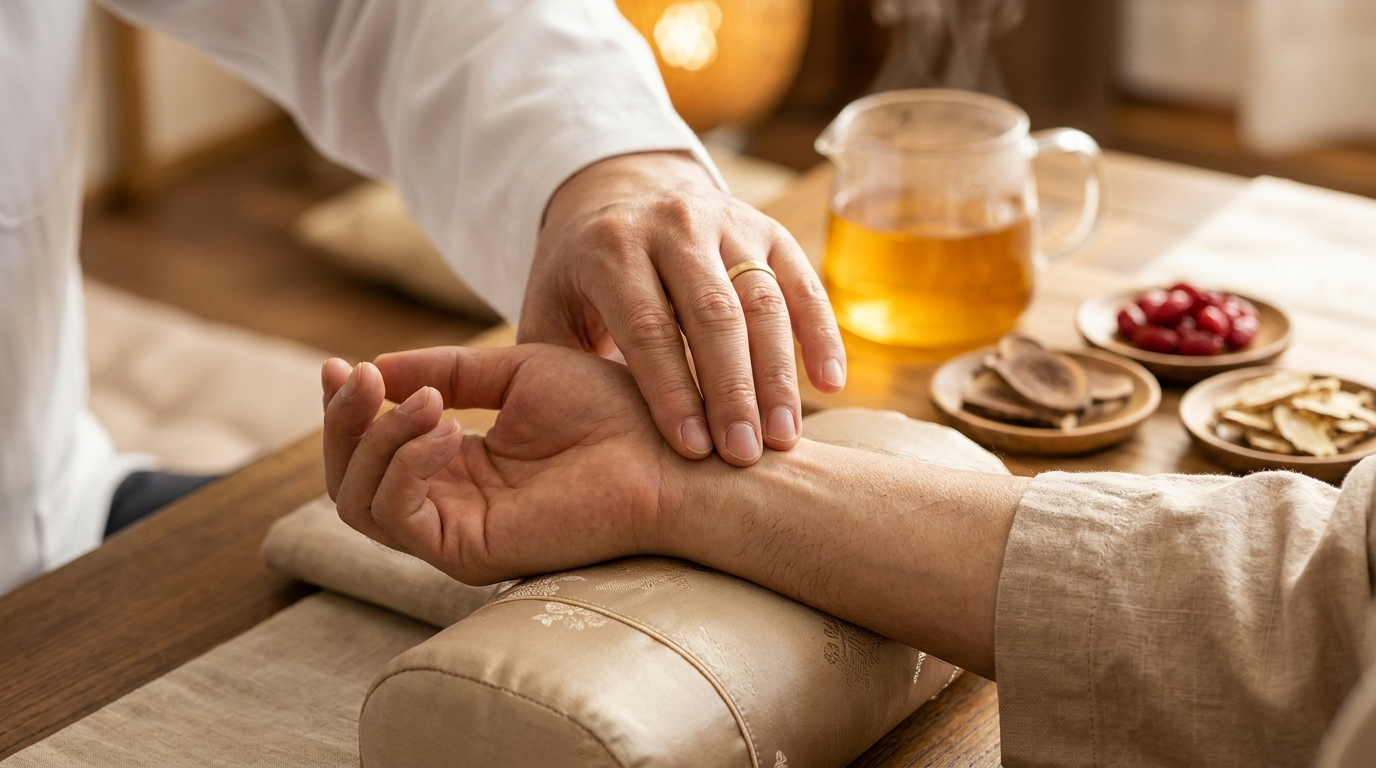
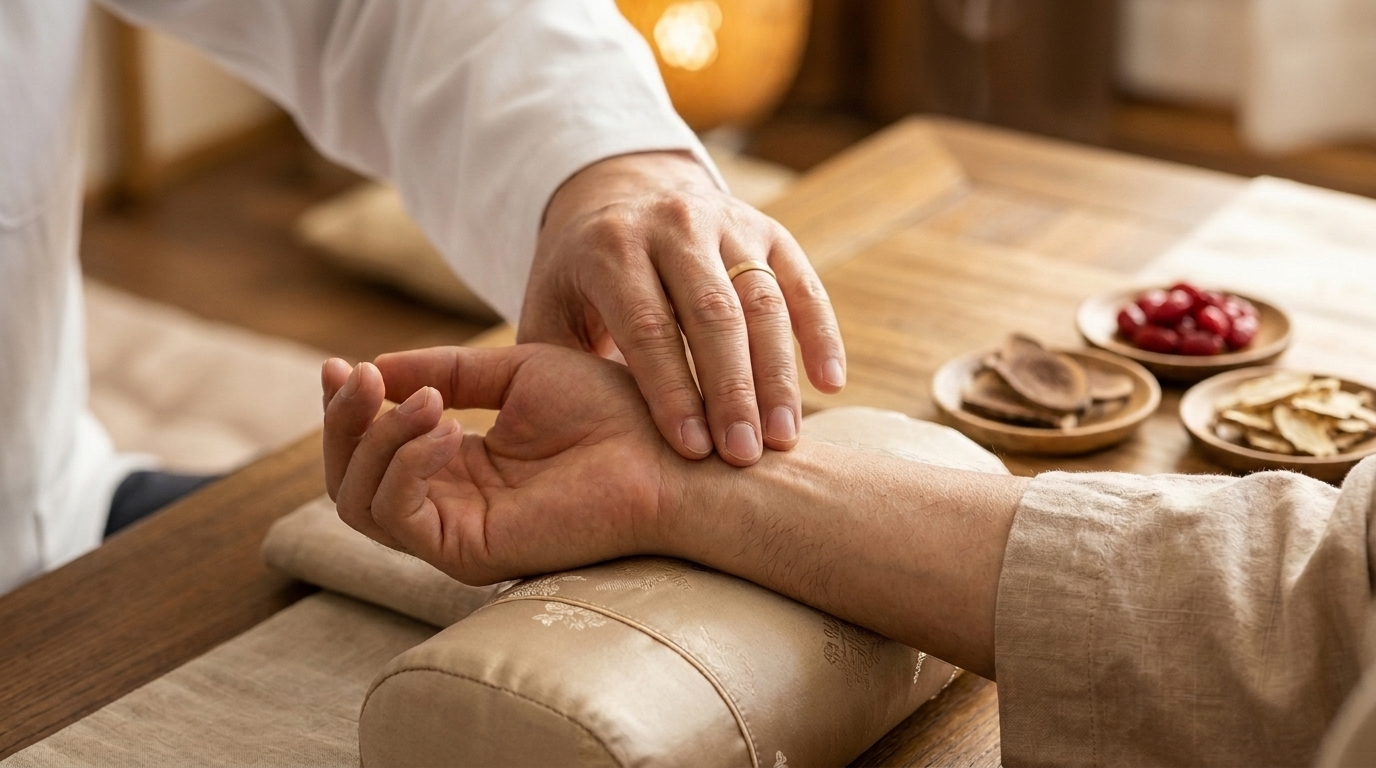
Update prostate Card 07 title/sub and remove teapot from pulse diagnosis image

Changed region(s): [[0.5625, 0.0, 0.8125, 0.5938], [0.375, 0.75, 0.4062, 0.7812]]

diff --git a/homepage/wordpress-prostate.html b/homepage/wordpress-prostate.html
@@ -6240,13 +6240,13 @@
         <article class="project-details-item is-image is-clean-plate" data-fullscreen>
           <span class="tiny-card-num-badge">07</span>
           <div class="plate-media-inner">
-            <img class="lusion-clean-media" src="https://raw.githubusercontent.com/ajwei0508-cpu/bareun-homepage/main/homepage/prostate_minimal_card7_pulse_custom_herb.jpg" alt="간·신장 부담 없이 하초 원기를 채우는 — '대표원장 1:1 프라이빗 진맥 & 보신온양 맞춤 한약'" draggable="false">
+            <img class="lusion-clean-media" src="https://raw.githubusercontent.com/ajwei0508-cpu/bareun-homepage/main/homepage/prostate_minimal_card7_pulse_custom_herb.jpg?v=noteapot1" alt="남성호르몬 및 원기를 채우는 — '대표원장 1:1 프라이빗 진맥 & 정력 맞춤 한약'" draggable="false">
             <div class="clean-plate-scrim"></div>
             <div class="clean-plate-caption">
               <div class="clean-plate-text">
                 
-                <h2 class="plate-caption-title">간·신장 부담 없이 하초 원기를 채우는 — <span class="title-key-em">'대표원장 1:1 프라이빗 진맥 & 보신온양 맞춤 한약'</span></h2>
-                <p class="plate-caption-sub">1:1 독립 진료실에서 세 손가락(촌·관·척) 정밀 맥진으로 하초(신장·방광·전립선)의 한열허실을 판독하고, 청열리습(염증·부종 배출)과 보신온양(남성 원기·활력 보강)을 결합한 맞춤 한약을 처방합니다.</p>
+                <h2 class="plate-caption-title">남성호르몬 및 원기를 채우는 — <span class="title-key-em">'대표원장 1:1 프라이빗 진맥 & 정력 맞춤 한약'</span></h2>
+                <p class="plate-caption-sub">1:1 독립 진료실에서 정밀 맥진과 초음파 검사를 결합한 개인 체질 맞춤 한약을 처방합니다.</p>
               </div>
             </div>
           </div>

diff --git a/homepage/prostate.html b/homepage/prostate.html
@@ -6223,13 +6223,13 @@
         <article class="project-details-item is-image is-clean-plate" data-fullscreen>
           <span class="tiny-card-num-badge">07</span>
           <div class="plate-media-inner">
-            <img class="lusion-clean-media" src="prostate_minimal_card7_pulse_custom_herb.jpg" alt="간·신장 부담 없이 하초 원기를 채우는 — '대표원장 1:1 프라이빗 진맥 & 보신온양 맞춤 한약'" draggable="false">
+            <img class="lusion-clean-media" src="prostate_minimal_card7_pulse_custom_herb.jpg?v=noteapot1" alt="남성호르몬 및 원기를 채우는 — '대표원장 1:1 프라이빗 진맥 & 정력 맞춤 한약'" draggable="false">
             <div class="clean-plate-scrim"></div>
             <div class="clean-plate-caption">
               <div class="clean-plate-text">
                 
-                <h2 class="plate-caption-title">간·신장 부담 없이 하초 원기를 채우는 — <span class="title-key-em">'대표원장 1:1 프라이빗 진맥 & 보신온양 맞춤 한약'</span></h2>
-                <p class="plate-caption-sub">1:1 독립 진료실에서 세 손가락(촌·관·척) 정밀 맥진으로 하초(신장·방광·전립선)의 한열허실을 판독하고, 청열리습(염증·부종 배출)과 보신온양(남성 원기·활력 보강)을 결합한 맞춤 한약을 처방합니다.</p>
+                <h2 class="plate-caption-title">남성호르몬 및 원기를 채우는 — <span class="title-key-em">'대표원장 1:1 프라이빗 진맥 & 정력 맞춤 한약'</span></h2>
+                <p class="plate-caption-sub">1:1 독립 진료실에서 정밀 맥진과 초음파 검사를 결합한 개인 체질 맞춤 한약을 처방합니다.</p>
               </div>
             </div>
           </div>

diff --git a/homepage/build-story-detail-pages.js b/homepage/build-story-detail-pages.js
@@ -1544,10 +1544,10 @@ const PAGES = [
       {
         type: 'clean-image',
         fullscreen: true,
-        title: "간·신장 부담 없이 하초 원기를 채우는 — '대표원장 1:1 프라이빗 진맥 & 보신온양 맞춤 한약'",
-        sub: '1:1 독립 진료실에서 세 손가락(촌·관·척) 정밀 맥진으로 하초(신장·방광·전립선)의 한열허실을 판독하고, 청열리습(염증·부종 배출)과 보신온양(남성 원기·활력 보강)을 결합한 맞춤 한약을 처방합니다.',
-        caption: '[1:1 프라이빗 진맥 & 보신온양 한약] 대표원장의 정밀 맥진과 식약처 GMP 청정 약재로 전립선 건강과 남성 활력을 안전하게 채웁니다.',
-        imgSrc: 'prostate_minimal_card7_pulse_custom_herb.jpg'
+        title: "남성호르몬 및 원기를 채우는 — '대표원장 1:1 프라이빗 진맥 & 정력 맞춤 한약'",
+        sub: '1:1 독립 진료실에서 정밀 맥진과 초음파 검사를 결합한 개인 체질 맞춤 한약을 처방합니다.',
+        caption: '[1:1 프라이빗 진맥 & 정력 맞춤 한약] 정밀 맥진과 초음파 검사를 결합하여 개인 체질에 맞춘 한약을 처방합니다.',
+        imgSrc: 'prostate_minimal_card7_pulse_custom_herb.jpg?v=noteapot1'
       },
       {
         type: 'clean-image',
